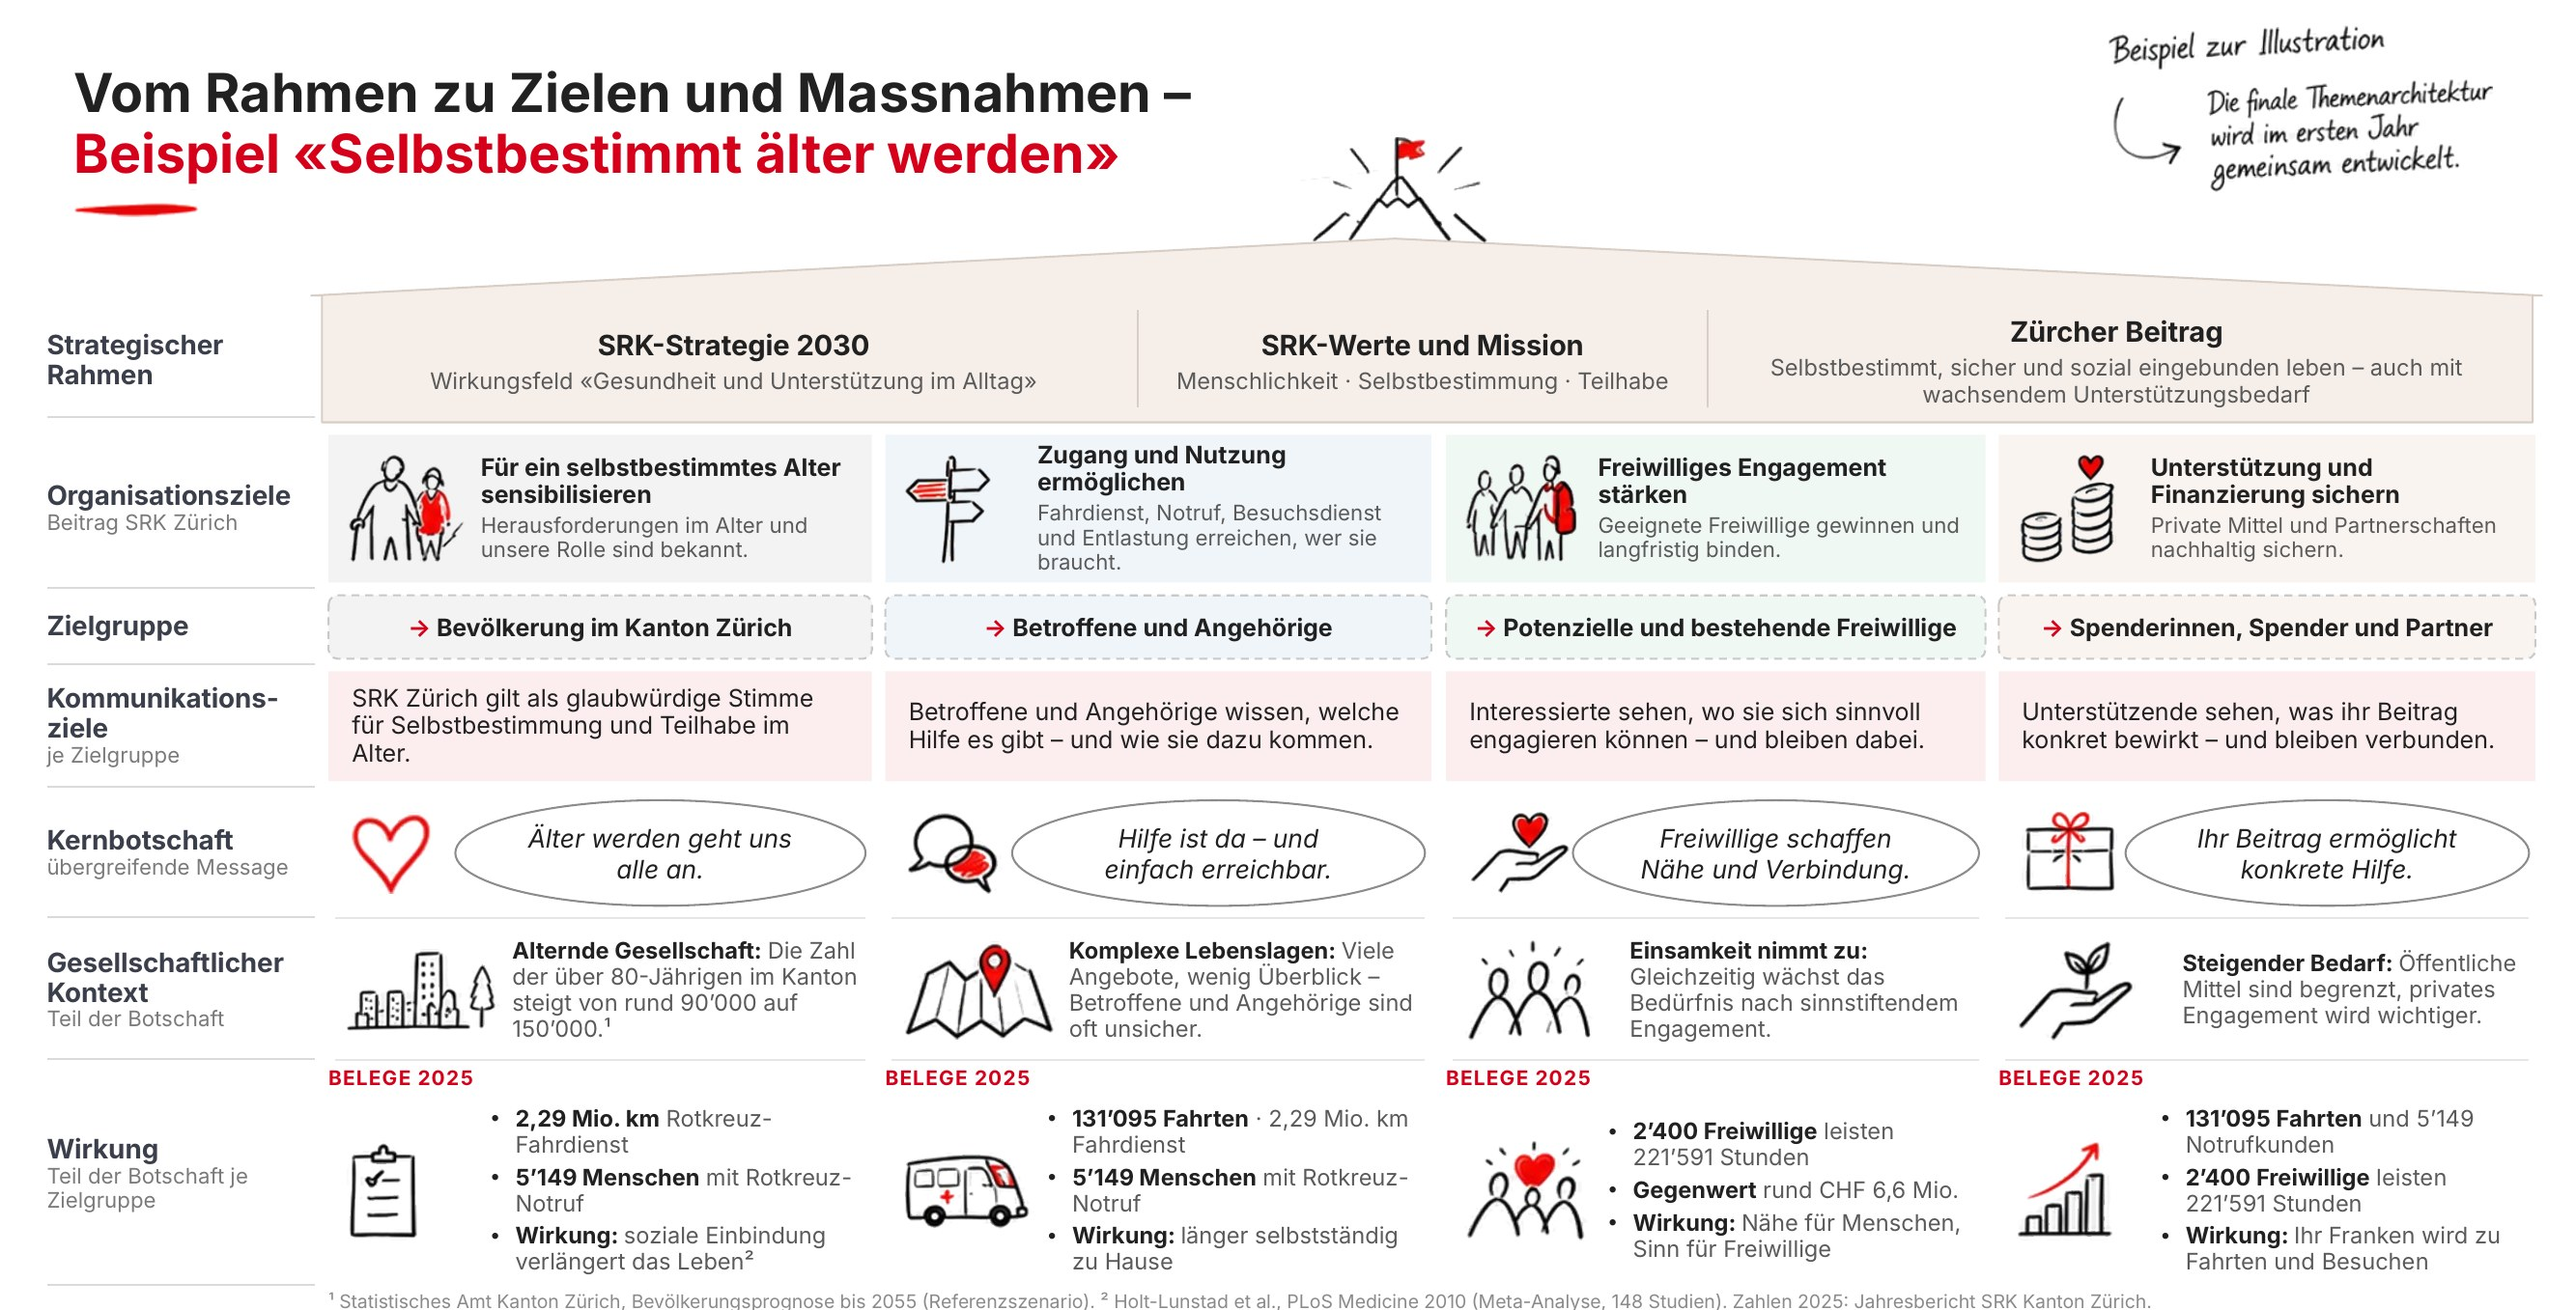
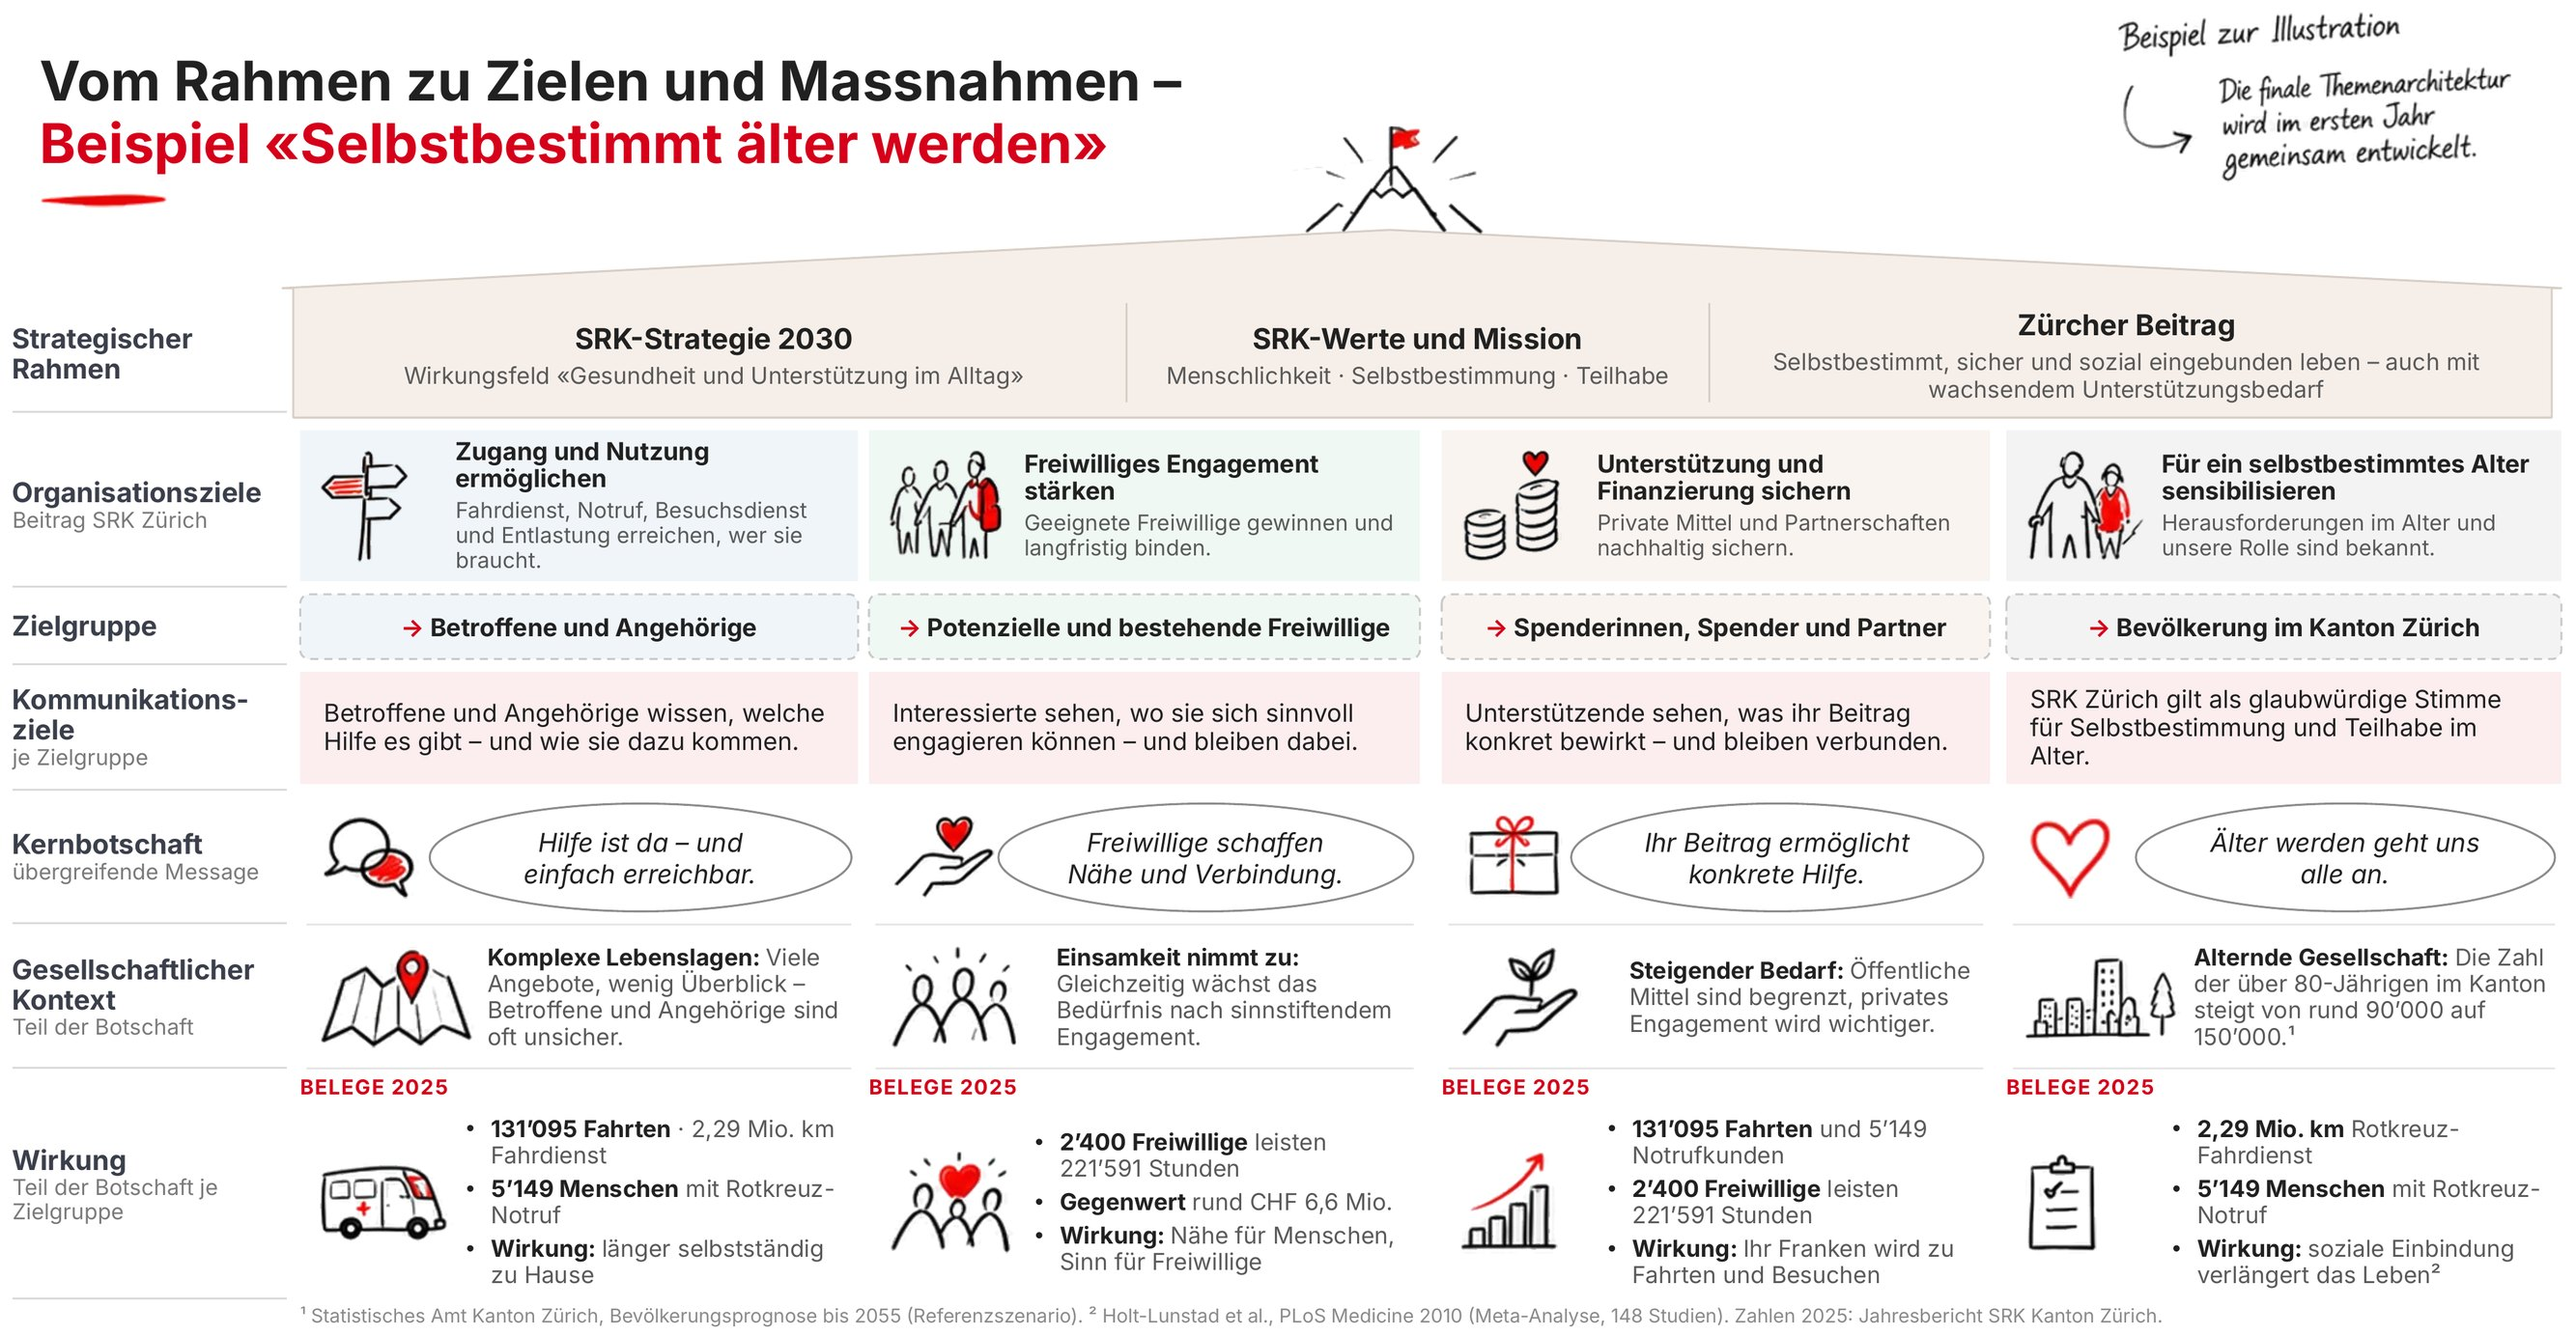
Zwei Zielhäuser untereinander, «Niemand bleibt aussen vor» als Grafik
Claude-Session: https://claude.ai/code/session_01Der2J39CQXvMiax1v9zNGx

diff --git a/index.html b/index.html
@@ -167,6 +167,7 @@ a.choice:focus-visible{outline:2px solid var(--red);outline-offset:2px}
 .chip{font-size:13px;padding:3px 10px;border-radius:99px;border:1px solid var(--line);background:var(--bg)}
 .chip.main{border-color:var(--red);color:var(--ink);font-weight:600;background:var(--rose2)}
 @media (max-width:600px){.offers .og{grid-template-columns:1fr}.offers .ob{padding-top:0}}
+.ex{display:flex;flex-direction:column;gap:14px;margin-top:14px}.ex-h{font-size:19px;color:var(--red)}
 footer{font-size:13px;color:var(--muted);display:flex;flex-direction:column;gap:6px;border-top:1px solid var(--line);padding-top:18px}
 footer a{color:inherit}
 @media (prefers-reduced-motion:reduce){*{transition:none!important}}
@@ -253,32 +254,32 @@ footer a{color:inherit}
   <span class="eyebrow">Beispiele zur Illustration</span>
   <h2>Vom Fokusthema zur Kommunikation</h2>
   <p>Ein Fokusthema wird über ein Zielhaus in Ziele, Zielgruppen und Botschaften übersetzt. Zwei Beispiele – die Zielhäuser für weitere Fokusthemen entstehen gemeinsam mit den Fachbereichen.</p>
-  <div class="controls"><div class="grp"><span class="lbl">Beispiel</span>
-    <div class="seg" id="segEx" role="group" aria-label="Beispiel wählen">
-      <button type="button" data-e="f4" aria-pressed="true">Selbstbestimmt älter werden</button>
-      <button type="button" data-e="f6" aria-pressed="false">Niemand bleibt aussen vor</button>
-    </div></div></div>
-  <div class="offers" aria-labelledby="off-h">
-    <h3 id="off-h">Welche Angebote tragen das Fokusthema?</h3>
-    <div id="offList"></div>
-    <div class="legend"><span><span class="chip main">fett</span> Hauptthema des Angebots</span><span><span class="chip">normal</span> trägt auch bei</span></div>
-  </div>
-  <figure class="zh-fig" id="ex-f4">
-    <span class="zh-badge">Beispiel</span>
-    <a href="zielhaus.jpg" target="_blank" rel="noopener"><img src="zielhaus.jpg" alt="Zielhaus «Selbstbestimmt älter werden»: Strategischer Rahmen, vier Organisationsziele mit Zielgruppen, Kommunikationszielen, Kernbotschaften, gesellschaftlichem Kontext und Wirkung" width="2667" height="1357"></a>
-    <figcaption>Zum Vergrössern auf das Bild tippen. Methodisch angelehnt an das Zielhaus der Kommunikation (Storck, in Zerfass/Volk).</figcaption>
-  </figure>
-  <figure class="zh-fig" id="ex-f6" hidden>
-    <span class="zh-badge">Beispiel</span>
-    <h3 style="font-size:18px">Vom Rahmen zu Zielen und Massnahmen – <span style="color:var(--red)">Beispiel «Niemand bleibt aussen vor»</span></h3>
-    <div class="zh-roof">
-      <div><span class="zk">Strategischer Rahmen</span><b>SRK-Strategie 2030</b></div>
-      <div><span class="zk">Werte</span><b>Menschlichkeit · Selbstbestimmung · Teilhabe</b></div>
-      <div><span class="zk">Zürcher Beitrag</span><b>Mobil, verbunden, angekommen – niemand bleibt aussen vor</b></div>
+  <div class="ex">
+    <h3 class="ex-h">Beispiel «Niemand bleibt aussen vor»</h3>
+    <div class="offers">
+      <h3>Welche Angebote tragen das Fokusthema?</h3>
+      <div class="offList" data-t="f6"></div>
+      <div class="legend"><span><span class="chip main">fett</span> Hauptthema des Angebots</span><span><span class="chip">normal</span> trägt auch bei</span></div>
     </div>
-    <div class="scroll"><table class="zh"><tbody><tr><th>Zielgruppe</th><td><span class="zg">Öffentlichkeit im Kanton Zürich</span></td><td><span class="zg">Betroffene und Angehörige</span></td><td><span class="zg">Potenzielle und bestehende Freiwillige</span></td><td><span class="zg">Spenderinnen, Spender und Partner</span></td></tr><tr><th>Organisationsziel</th><td>Teilhabe als gemeinsame Aufgabe sichtbar machen</td><td>Wege zur Teilhabe öffnen – mobil, verbunden, angekommen</td><td>Engagement für Teilhabe gewinnen und binden</td><td>Teilhabe-Angebote nachhaltig finanzieren</td></tr><tr><th>Kommunikationsziel</th><td>SRK Zürich gilt als glaubwürdige Stimme für Teilhabe und Zusammenhalt.</td><td>Betroffene kennen den passenden Zugang und nutzen ihn.</td><td>Interessierte sehen, wo ihre Zeit Türen öffnet – im Alltag und beim Ankommen.</td><td>Unterstützende sehen, was ihr Beitrag für Teilhabe konkret bewirkt.</td></tr><tr class="kb"><th>Kernbotschaft</th><td>«Zürich gehört allen.»</td><td>«Hier finden Sie Anschluss.»</td><td>«Ihre Zeit öffnet Türen.»</td><td>«Ihr Beitrag macht Teilhabe möglich.»</td></tr><tr><th>Gesellschaftlicher Kontext<small>Teil der Botschaft</small></th><td><b>Mehr Vielfalt, mehr ältere Menschen:</b> Teilhabe wird anspruchsvoller – und wichtiger.</td><td><b>Hürden im Alltag:</b> eingeschränkte Mobilität, Sprache, fehlende Kontakte und Zugang zu Arbeit.</td><td><b>Begegnung stiftet Sinn:</b> Engagement verbindet – auch die Freiwilligen selbst.</td><td><b>Steigender Bedarf:</b> Begegnungs- und Integrationsangebote sind nur teilweise öffentlich finanziert.¹</td></tr><tr><th>Wirkung<small>Belege 2025</small></th><td>Rund 2'400 Freiwillige im Einsatz · Menschen aus 100 Ländern in der Sozialberatung</td><td>131'095 Fahrten, 83 % für Menschen im Pensionsalter · 327 junge Menschen üben Deutsch (Meet'n'Speak) · 13 von 18 Jugendlichen nach dem Praktikum in einer Lehre</td><td>877 Fahrerinnen und Fahrer · 231 Freiwillige bei Meet'n'Speak · 124 Freiwillige bei Perspektive Arbeit</td><td>48 % der Mittel aus Fundraising · 86 Rappen pro Franken fliessen direkt in die Hilfe</td></tr></tbody></table></div>
-    <figcaption>Zahlen: Jahresbericht 2025 SRK Kanton Zürich. ¹ Einschätzung, zu prüfen. Zuordnung und Formulierungen als Vorschlag zur Diskussion. Methodisch angelehnt an das Zielhaus der Kommunikation (Storck, in Zerfass/Volk).</figcaption>
-  </figure>
+    <figure class="zh-fig">
+      <span class="zh-badge">Beispiel</span>
+      <a href="zielhaus2.jpg" target="_blank" rel="noopener"><img src="zielhaus2.jpg" alt="Zielhaus «Niemand bleibt aussen vor»: Strategischer Rahmen, vier Organisationsziele mit Zielgruppen, Kommunikationszielen, Kernbotschaften, gesellschaftlichem Kontext und Wirkung" width="2667" height="1383" loading="lazy"></a>
+      <figcaption>Zum Vergrössern auf das Bild tippen. Methodisch angelehnt an das Zielhaus der Kommunikation (Storck, in Zerfass/Volk).</figcaption>
+    </figure>
+  </div>
+  <div class="ex">
+    <h3 class="ex-h">Beispiel «Selbstbestimmt älter werden»</h3>
+    <div class="offers">
+      <h3>Welche Angebote tragen das Fokusthema?</h3>
+      <div class="offList" data-t="f4"></div>
+      <div class="legend"><span><span class="chip main">fett</span> Hauptthema des Angebots</span><span><span class="chip">normal</span> trägt auch bei</span></div>
+    </div>
+    <figure class="zh-fig">
+      <span class="zh-badge">Beispiel</span>
+      <a href="zielhaus.jpg" target="_blank" rel="noopener"><img src="zielhaus.jpg" alt="Zielhaus «Selbstbestimmt älter werden»: Strategischer Rahmen, vier Organisationsziele mit Zielgruppen, Kommunikationszielen, Kernbotschaften, gesellschaftlichem Kontext und Wirkung" width="2667" height="1383" loading="lazy"></a>
+      <figcaption>Zum Vergrössern auf das Bild tippen. Methodisch angelehnt an das Zielhaus der Kommunikation (Storck, in Zerfass/Volk).</figcaption>
+    </figure>
+  </div>
 </section>
 
 <section id="praesentation">
@@ -385,14 +386,11 @@ function bind(id,attr,set){document.querySelectorAll('#'+id+' button').forEach(b
   document.querySelectorAll('#'+id+' button').forEach(x=>x.setAttribute('aria-pressed',String(x===b)));set(b.dataset[attr]);render();}))}
 bind("segVar","v",v=>V=v); bind("segBer","b",b=>BER=b); bind("segLp","l",l=>LP=l);
 render();
-function offers(T){const el=document.getElementById("offList");let h="";const isM=o=>o[6][0]===T||(MAIN2[T]||[]).includes(o[0]);
+document.querySelectorAll(".offList").forEach(el=>{const T=el.dataset.t;let h="";const isM=o=>o[6][0]===T||(MAIN2[T]||[]).includes(o[0]);
 ["Alltag","Migration","Bildung","Quer"].forEach(b=>{const os=OFFERS.filter(o=>o[2]===b&&o[6].includes(T));if(!os.length)return;
 os.sort((a,c)=>(isM(a)?0:1)-(isM(c)?0:1));
 h+='<div class="og"><span class="ob">'+b+'</span><div class="oc">'+os.map(o=>'<span class="chip'+(isM(o)?' main':'')+'">'+esc(o[0])+'</span>').join('')+'</div></div>';});
-el.innerHTML=h;el.style.display="flex";el.style.flexDirection="column";el.style.gap="10px";
-document.getElementById("ex-f4").hidden=T!=="f4";document.getElementById("ex-f6").hidden=T!=="f6";}
-offers("f4");
-document.querySelectorAll("#segEx button").forEach(b=>b.addEventListener("click",()=>{document.querySelectorAll("#segEx button").forEach(x=>x.setAttribute("aria-pressed",String(x===b)));offers(b.dataset.e);}));
+el.innerHTML=h;el.style.display="flex";el.style.flexDirection="column";el.style.gap="10px";});
 // Hinweis zum Umschalten, verschwindet nach erster Nutzung
 (function(){const c=document.getElementById("ctl"),h=document.getElementById("hint");
 document.querySelectorAll("#segVar button").forEach(b=>b.addEventListener("click",()=>{c.classList.remove("nudge");h.classList.add("gone");setTimeout(()=>h.remove(),400);},{once:true}));})();
